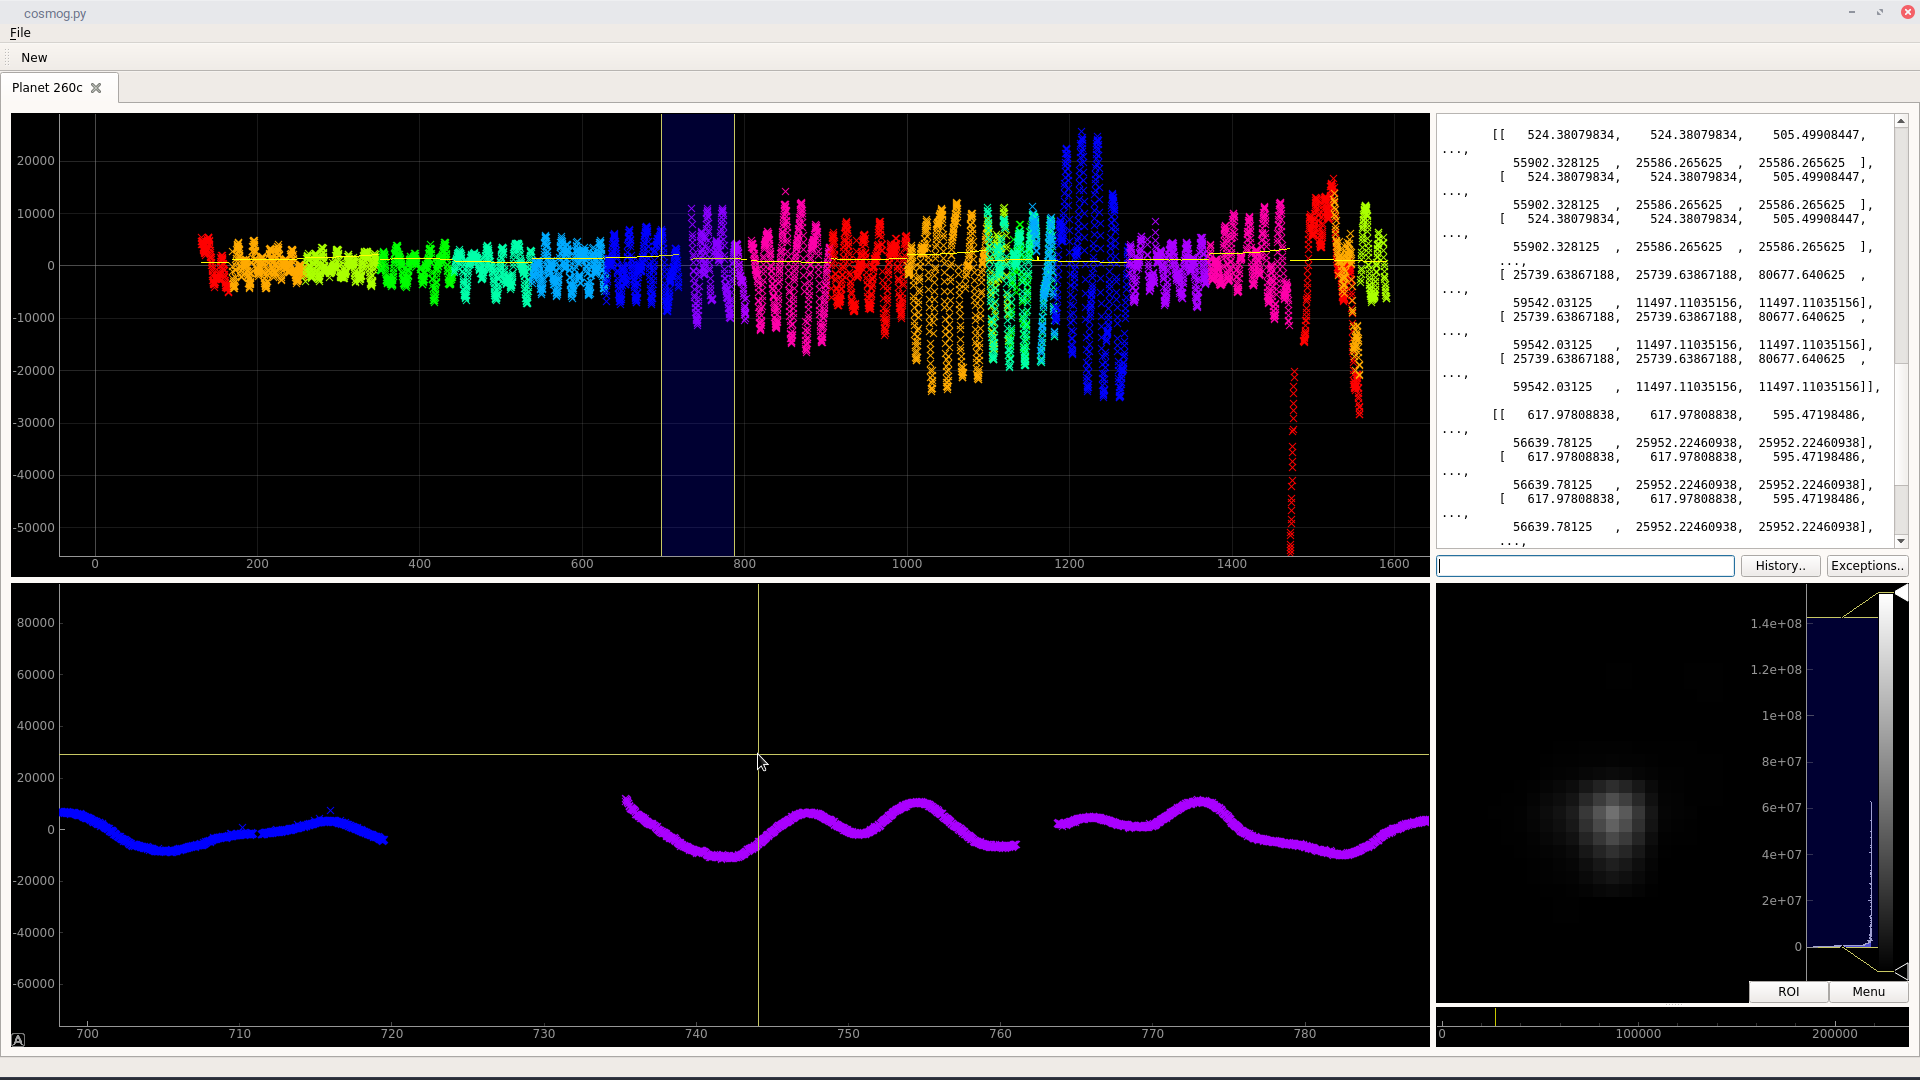
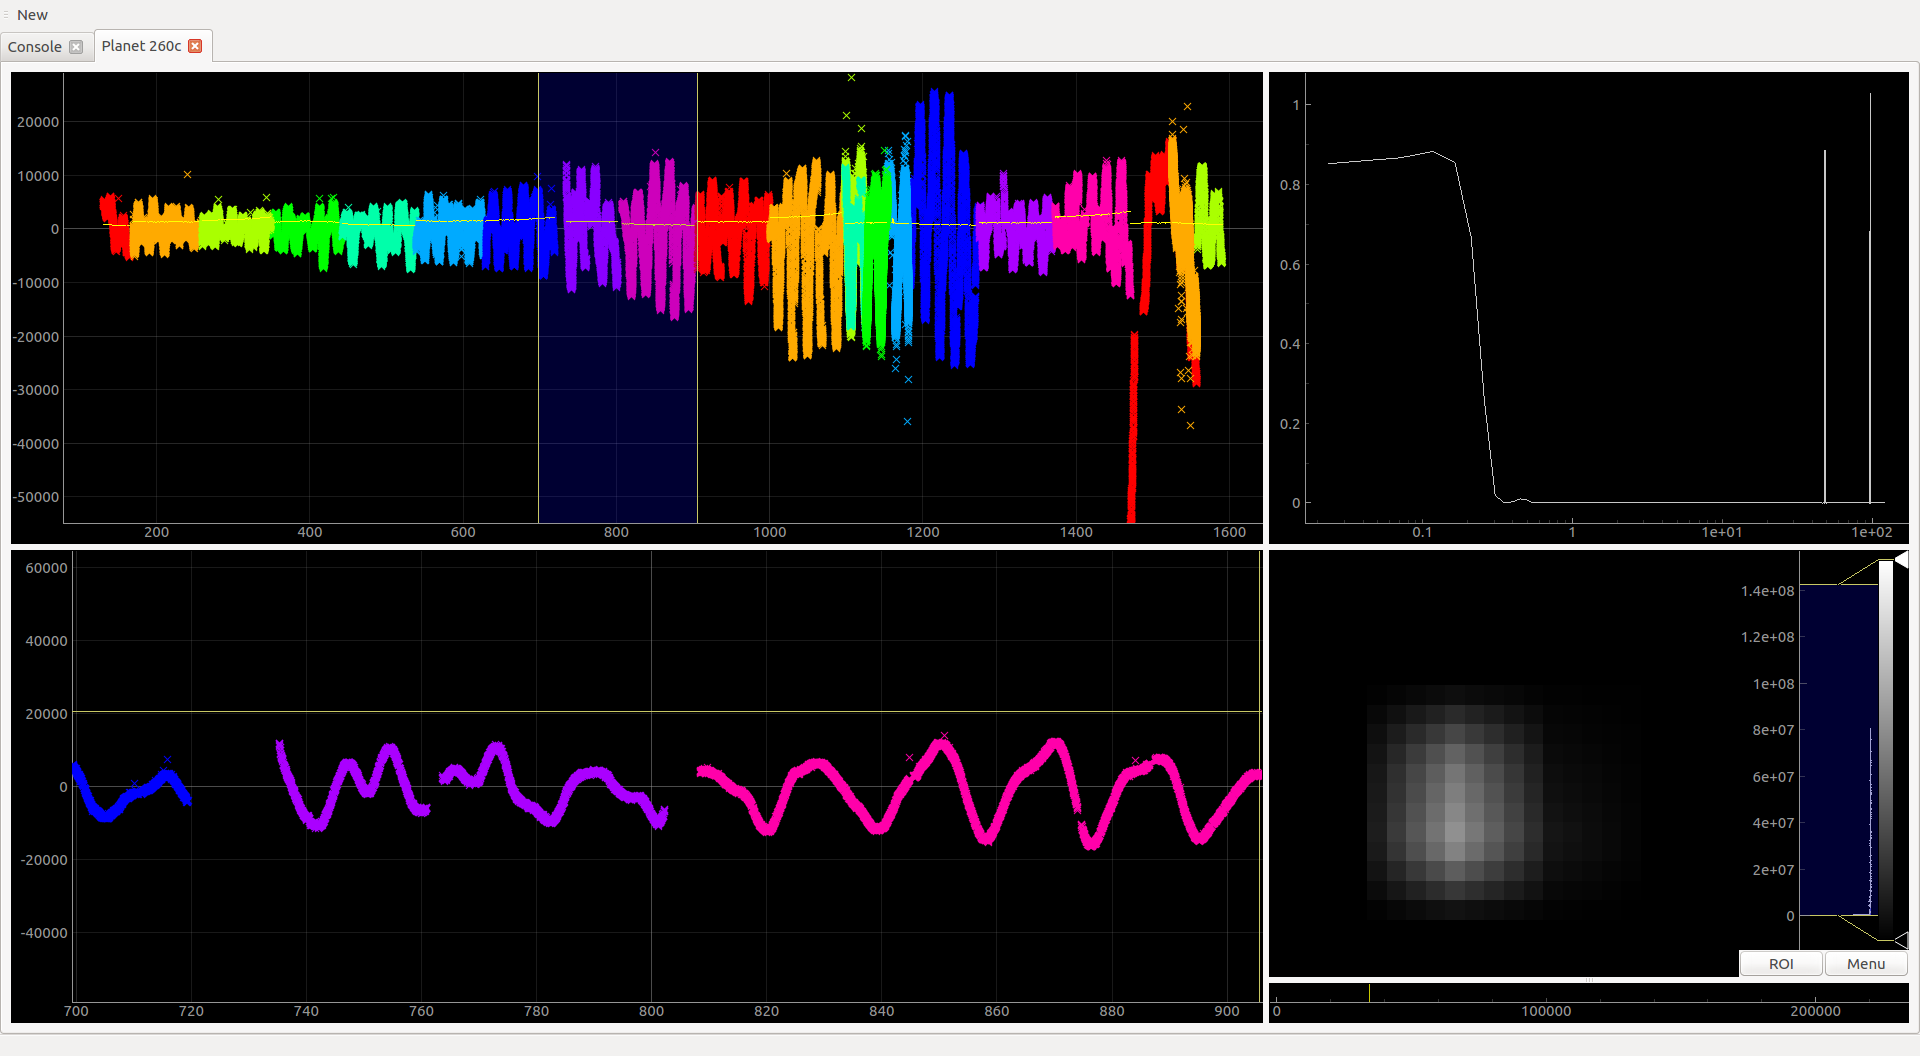
stretch factors and fix up peridogram

diff --git a/cosmog/cosmog.py b/cosmog/cosmog.py
@@ -20,6 +20,20 @@ import scipy as sp
 class WorkerSignals(pg.QtCore.QObject):
     curve_result = pg.QtCore.Signal(object, object, object, object, int)
     tpf_result = pg.QtCore.Signal(object)
+    ls_result = pg.QtCore.Signal(object, object)
+
+
+class LSComputer(pg.QtCore.QRunnable):
+
+    def __init__(self, data):
+        super().__init__()
+        self.data = data
+        self.signals = WorkerSignals()
+
+    def run(self):
+        t_days =  span * u.day
+        freq, power = LombScargle(t_days, self.data).autopower()
+        self.signals.ls_result.emit(freq, power)
 
 
 class TPFLoader(pg.QtCore.QRunnable):
@@ -99,6 +113,7 @@ class PlanetGraph(qt.QWidget):
 
     def setupGrid(self):
         self.grid = qt.QGridLayout()
+        self.grid.setColumnStretch(0, 2)
         self.setLayout(self.grid)
 
     def setupLightCurve(self):
@@ -109,18 +124,18 @@ class PlanetGraph(qt.QWidget):
         self.light_curve.showButtons()
         self.light_curve.setAutoVisible(y=True)
         self.light_curve.enableAutoRange('y', 0.97)
-        self.grid.addWidget(self.light_curve, 0, 0, 1, 3)
+        self.grid.addWidget(self.light_curve, 0, 0, 1, 4)
 
     def setupZoomPlot(self):
         self.zoom_curve = pg.PlotWidget(name=self.planet.kepler_name)
         #self.zoom_curve.setDownsampling(auto=True)
         self.zoom_curve.showGrid(x=True, y=True)
         self.zoom_curve.showButtons()
-        self.grid.addWidget(self.zoom_curve, 1, 0, 1, 3)
+        self.grid.addWidget(self.zoom_curve, 1, 0, 1, 4)
 
     def setupTargetPixels(self):
         self.pixels = pg.ImageView()
-        self.grid.addWidget(self.pixels, 1, 4)
+        self.grid.addWidget(self.pixels, 1, 5)
 
     def setupRegion(self):
         self.region = pg.LinearRegionItem()
@@ -151,7 +166,8 @@ class PlanetGraph(qt.QWidget):
 
     def setupPeriodogram(self):
         self.pgram = pg.PlotWidget(name='Periodogram')
-        #self.grid.addWidget(self.pgram, 0, 4)
+        self.pgram.setLogMode(x=True)
+        self.grid.addWidget(self.pgram, 0, 5)
 
     def loadLightCurves(self):
         self.all_time = None
@@ -185,16 +201,16 @@ class PlanetGraph(qt.QWidget):
         self.region.setZValue(10)
         minX, maxX = self.region.getRegion()
         self.zoom_curve.setXRange(minX, maxX, padding=0)
-        # if time.time() - self.last_pgram_update < 1:
-        #     return
-        # self.last_pgram_update = time.time()
+        if time.time() - self.last_pgram_update < 1:
+            return
+        self.last_pgram_update = time.time()
 
-        # span = self.all_time[minX:maxX]
-        # data = self.all_norm[minX:maxX]
-        # t_days =  span * u.day
-        # freq, power = LombScargle(t_days, data).autopower()
-        # self.pgram.clear()
-        # self.pgram.plot(freq, power)
+        span = self.all_time[minX:maxX]
+        data = self.all_data[minX:maxX]
+        t_days =  span * u.day
+        freq, power = LombScargle(t_days, data).autopower()
+        self.pgram.clear()
+        self.pgram.plot(freq, power**2)
 
     def updateRange(self, window, viewRange):
         rgn = viewRange[0]
